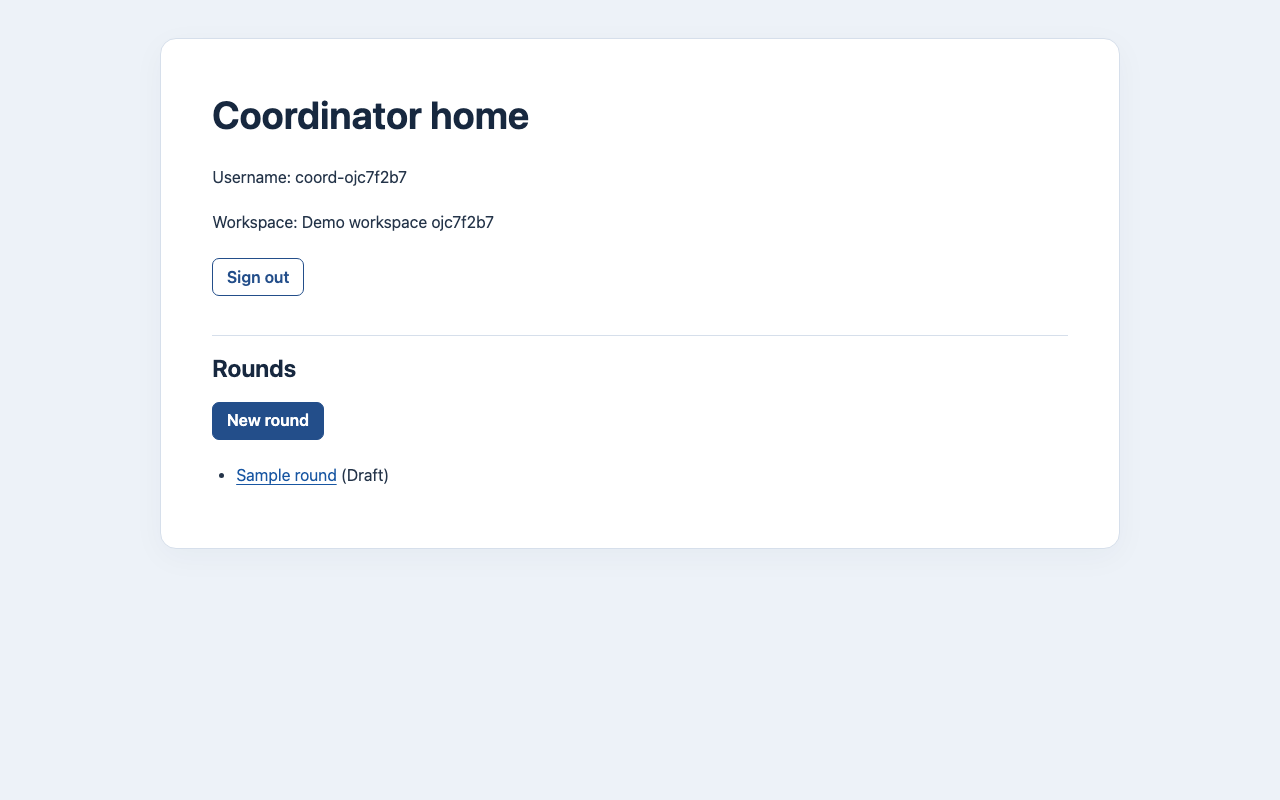
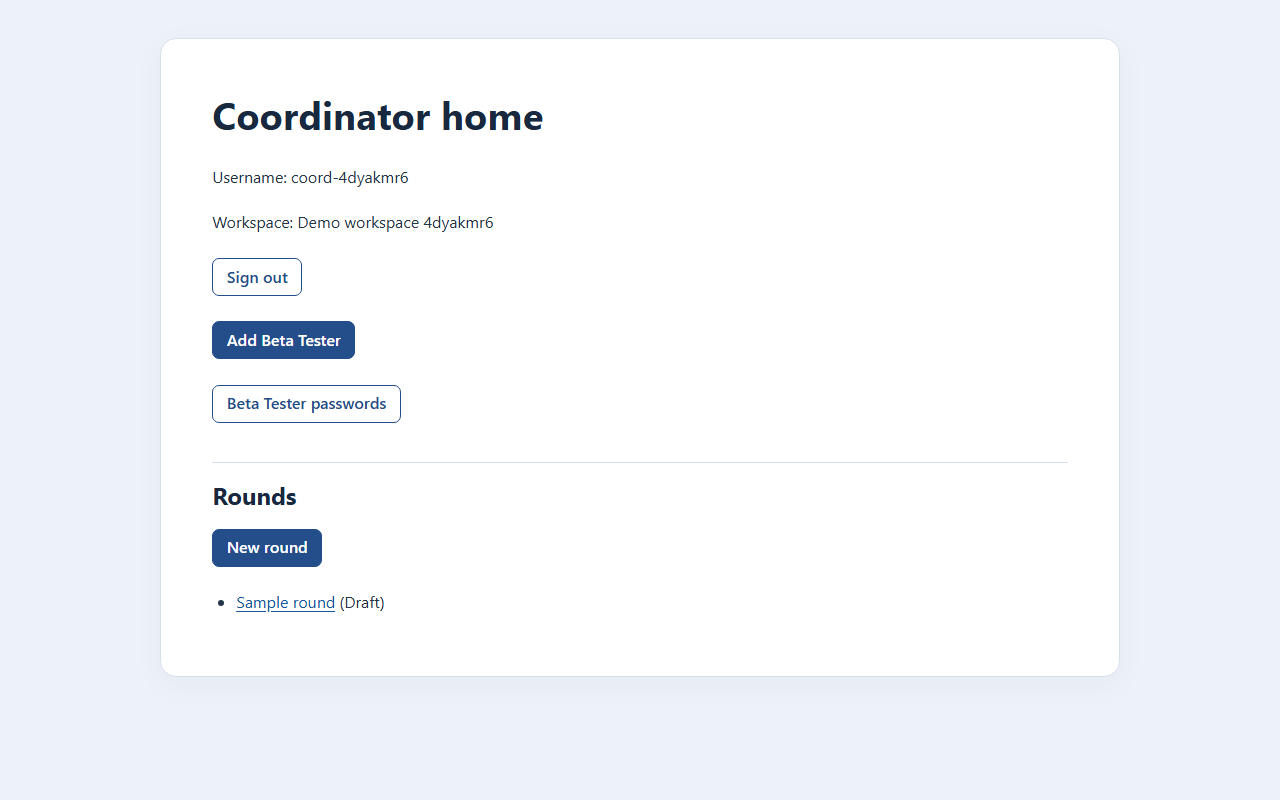
docs: Add tester account screenshots (#143)

diff --git a/src/e2e/screenshots.py b/src/e2e/screenshots.py
@@ -1,9 +1,10 @@
 """Regenerate the User Guide screenshots in ``docs/images/`` from the real app.
 
 This drives one synthetic journey through Django's live server with the browser
-harness: create a demo workspace, prepare and publish its sample round as the
-coordinator, record a Pass and a Fail (with observation feedback) as its two
-testers, then review results, request a retest and view **My results**. The AI
+harness: create a demo workspace, add a tester and show password management,
+prepare and publish its sample round as the coordinator, record a Pass and a
+Fail (with observation feedback) as its two initial testers, then review results,
+request a retest and view **My results**. The AI
 gateway is mocked, as in ``test_drafting.py`` and ``test_feedback.py``, so no
 provider is called. The demo passwords shown are random and exist only in the
 throwaway test database.
@@ -14,6 +15,10 @@ it. To refresh the images, with the test database available, run::
     pytest src/e2e/screenshots.py
 
 then review every changed PNG before committing it.
+
+To refresh only the account-management images, select::
+
+    pytest src/e2e/screenshots.py::test_account_management_screenshots
 """
 
 import json
@@ -74,15 +79,17 @@ def new_session(page, live_server, credentials):
     return session
 
 
-def demo_workspace(page):
+def demo_workspace(page, *, capture=True):
     """Create a demo workspace from the start page and read its credentials."""
     page.goto("/")
-    shot(page, "start-page")
+    if capture:
+        shot(page, "start-page")
     page.get_by_role("button", name="Create a demo workspace", exact=True).click()
     expect(
         page.get_by_role("heading", name="Your demo workspace", exact=True)
     ).to_be_visible()
-    shot(page, "demo-workspace")
+    if capture:
+        shot(page, "demo-workspace")
     rows = page.get_by_role("row").filter(has=page.get_by_role("cell"))
     expect(rows).to_have_count(3)
     accounts = []
@@ -97,12 +104,37 @@ def demo_workspace(page):
     return accounts
 
 
-def prepare_and_publish(page):
-    """As the coordinator, show the Draft round, its forms and AI drafting."""
+def account_management(page):
+    """Capture the coordinator's tester creation and password-management pages."""
     expect(
         page.get_by_role("heading", name="Coordinator home", exact=True)
     ).to_be_visible()
+    expect(
+        page.get_by_role("button", name="Add Beta Tester", exact=True)
+    ).to_be_visible()
+    expect(
+        page.get_by_role("link", name="Beta Tester passwords", exact=True)
+    ).to_be_visible()
     shot(page, "coordinator-home")
+    page.get_by_role("button", name="Add Beta Tester", exact=True).click()
+    expect(
+        page.get_by_role("heading", name="Beta Tester added", exact=True)
+    ).to_be_visible()
+    shot(page, "beta-tester-added")
+    page.get_by_role("link", name="Coordinator home", exact=True).click()
+    page.get_by_role("link", name="Beta Tester passwords", exact=True).click()
+    expect(
+        page.get_by_role("heading", name="Beta Tester passwords", exact=True)
+    ).to_be_visible()
+    expect(page.get_by_role("button", name="Reset password", exact=True)).to_have_count(
+        3
+    )
+    shot(page, "beta-tester-passwords")
+    page.get_by_role("link", name="Coordinator home", exact=True).click()
+
+
+def prepare_and_publish(page):
+    """As the coordinator, show the Draft round, its forms and AI drafting."""
     page.get_by_role("link", name="Sample round", exact=True).click()
     expect(page.get_by_text("State: Draft", exact=True)).to_be_visible()
     round_url = page.url
@@ -205,6 +237,7 @@ def test_user_guide_screenshots(page, live_server):
     coordinator, first, second = demo_workspace(page)
     page.get_by_role("link", name="Sign in", exact=True).click()
     sign_in(page, coordinator, "username")
+    account_management(page)
     round_url = prepare_and_publish(page)
 
     sessions = [new_session(page, live_server, tester) for tester in (first, second)]
@@ -221,3 +254,12 @@ def test_user_guide_screenshots(page, live_server):
     finally:
         for session in sessions:
             session.context.close()
+
+
+def test_account_management_screenshots(page):
+    """Refresh only the guide images for adding testers and resetting passwords."""
+    IMAGES.mkdir(exist_ok=True)
+    page.set_viewport_size(VIEWPORT)
+    coordinator, _, _ = demo_workspace(page, capture=False)
+    sign_in(page, coordinator, "username")
+    account_management(page)

diff --git a/logs/Whimsyturtle/041-reset-workspace-tester-passwords.md b/logs/Whimsyturtle/041-reset-workspace-tester-passwords.md
@@ -2,23 +2,25 @@
 
 Slice: #143 · Tier: High · Tool: Codex · Orchestrator model: gpt-6-astra (observed telemetry) · Date: 2026-11-06
 
-Tokens: measured sources total 25,076,314 input, 69,880 output and 25,146,194 total at 18:15:32 SGT. Combined usage is unavailable because one approval-review source lacks a task-start baseline.
+Tokens: measured sources total 30,419,009 input, 88,693 output and 30,507,702 total at 19:09:08 SGT. Combined usage is unavailable because one approval-review source lacks a task-start baseline.
 
 | Agent/source | Input | Cached input | Output | Reasoning output | Total | Recorded elapsed span |
 | --- | ---: | ---: | ---: | ---: | ---: | --- |
-| Orchestrator — gpt-6-astra/xhigh, `codex:874eb87b12b078258dc4f7a9` | 9,901,025 | 9,803,520 | 23,818 | 7,542 | 9,924,843 | 42m 40s measured interval |
+| Orchestrator — gpt-6-astra/xhigh, `codex:874eb87b12b078258dc4f7a9` | 15,181,920 | 15,021,056 | 42,235 | 14,036 | 15,224,155 | 1h 36m 17s measured interval |
 | Builder — gpt-6.1-sol/medium, `codex:e8524338101a4308d12eee98` | 13,341,650 | 13,210,752 | 37,836 | 7,841 | 13,379,486 | 40m 53s |
 | Verifier — gpt-6.1-sol/high, `codex:b41fb4448b7af7baec8f3b82` | 1,127,835 | 1,058,048 | 3,983 | 1,232 | 1,131,818 | 8m 59s |
 | Security reviewer — gpt-6.1-sol/high, `codex:945222354c526bb4b5801312` | 604,948 | 545,408 | 3,562 | 569 | 608,510 | 2m 19s |
-| Coordinator approval review — codex-auto-review/low, `codex:8543d4a5e6823dbf7663b427` | unavailable | unavailable | unavailable | unavailable | unavailable | 27m 48s |
+| Coordinator approval review — codex-auto-review/low, `codex:8543d4a5e6823dbf7663b427` | unavailable | unavailable | unavailable | unavailable | unavailable | unavailable without baseline |
 | Builder approval review — codex-auto-review/low, `codex:c128dd04184b04639015a04a` | 100,856 | 75,776 | 681 | 422 | 101,537 | 6m 21s |
+| Screenshot approval review — codex-auto-review/low, `codex:636b75c255d1b7cea6a4954b` | 61,800 | 45,440 | 396 | 202 | 62,196 | 1m 02s |
 
-Three delegated role agents, with the builder reused across checkpoints and the verifier resumed for final CI evidence; two automatic approval-review sources also discovered. Runtime models/efforts above were observed, matching role adapters. Baseline/report used `resource_usage.py` with related-session discovery; it reported `added_session_has_no_task_start_baseline` for the early approval source. Startup before 17:32:51 SGT and delivery after the cutoff are excluded. Measured cache-write input was zero. One builder correction round preceded review; independent-review repair rounds were zero. Spans overlap; see [token reporting](../../workflow/README.md#token-reporting).
+Three delegated role agents, with the builder reused across checkpoints and the verifier resumed for final CI evidence; three automatic approval-review sources also discovered. Runtime models/efforts above were observed, matching role adapters. Baseline/report used `resource_usage.py` with related-session discovery; it reported `added_session_has_no_task_start_baseline` for the early approval source. A separate baseline was also captured before the screenshot follow-up; the table includes it in the full measured session interval. Startup before 17:32:51 SGT and delivery after the cutoff are excluded. Measured cache-write input was zero. One builder correction round preceded review; independent-review repair rounds were zero. Spans overlap; see [token reporting](../../workflow/README.md#token-reporting).
 
 ## Requests
 
 - Run `/slice 143 on top of pr #153`, with normal incremental commits, push, draft PR and validation delivery.
 - Preserve the existing main worktree and its unrelated untracked notes, peer evaluation and audit log. Work used the isolated `tmp/worktrees/issue-143` checkout.
+- After asking whether tester creation and password reset needed guide screenshots, requested adding the proposed three-image update to this same PR.
 
 ## Agent runs
 
@@ -28,13 +30,15 @@ Three delegated role agents, with the builder reused across checkpoints and the 
 - **Builder, guides/checks:** used maintain-docs for exact built UI text and existing design links; docs committed `124ded7`. First full run was superseded by the changed upstream base and failed in the restricted execution environment. After coordinator integration and external harness correction, final elevated full verification passed Ruff and 2989 tests, with five skips and the three fixed-port configuration failures described in the plan. All browser journeys passed. Builder held tracked files unchanged while reviewers worked and returned a passing scope/unchanged check.
 - **Verifier:** role hash `dc3d558e9db4`; supplied fixed candidate `c1372cd..f5bb810`, criteria, diff paths, plan and actual focused/runtime evidence. Independently inspected all changed source/test assertions, guides, scope and spec-first commits; returned no findings. Scope and whitespace checks passed. A brief follow-up assessed supplied successful Linux CI for the same candidate without repeating code inspection or tests.
 - **Security reviewer:** role hash `7787b969fbe7`; supplied the same fixed candidate and account/session/privacy controls. Independently inspected authorization before generation and under lock, password-only updates, rollback, CSRF/method ordering, credential redaction and installed Django auth-hash behavior. No findings or scope expansion. Checked direct/cross-workspace IDs, forged fields, script-shaped username fixtures, stale cookies and concurrent reset assertions; no runtime tests independently executed. Hosted security and native hook enforcement remain unverified.
-- Both reviewers' scopes passed and the frozen manifest remained unchanged. Linux [CI 42199270500](https://github.com/CS3227-2610-MP4-Relay/CS3227-2610-MP4/actions/runs/42199270500) passed on `f5bb810`: Django/Ruff, 2994 tests with three skips, and site build. Summary-only changes follow this review. Final summary-head checks will be recorded in [draft PR #154](https://github.com/CS3227-2610-MP4-Relay/CS3227-2610-MP4/pull/154); this cutoff does not claim they have already run.
+- Both reviewers' scopes passed and the frozen manifest remained unchanged. Linux [CI 42199270500](https://github.com/CS3227-2610-MP4-Relay/CS3227-2610-MP4/actions/runs/42199270500) passed on `f5bb810`: Django/Ruff, 2994 tests with three skips, and site build. Summary head `b485933` also passed verification and site build in [CI 42201697424](https://github.com/CS3227-2610-MP4-Relay/CS3227-2610-MP4/actions/runs/42201697424).
+- **Orchestrator, screenshot follow-up:** applied maintain-docs as a Fast lane cosmetic addition with no new delegated role runs. Extended the existing optional capture harness, refreshed Coordinator home and added Beta Tester added/passwords screenshots beside the guide instructions. Focused capture passed once in 9.10s against the existing isolated synthetic test database; all three images were visually inspected for readable, unclipped content. All 16 guide image links, changed-section readback, targeted Ruff and whitespace checks passed. Exact capture command is in the plan. Previous product checks/review remain applicable because production code, tests and environment are unchanged. Final follow-up CI will be recorded in [draft PR #154](https://github.com/CS3227-2610-MP4-Relay/CS3227-2610-MP4/pull/154).
 
 ## Decisions and corrections
 
 - Reset only a Beta Tester in the coordinator's workspace; reuse existing generated credentials and Django session invalidation. Preserve account identity/history. No coordinator recovery, email, new service or session subsystem. Each successful resubmission resets again; already-running authenticated requests are not cancelled.
 - PR #153 merged at 17:51:05 SGT and its branch was deleted during this slice. Retargeted the new draft to `main` and integrated its additional #141 changes without conflicts or history rewriting as `f5bb810`. Review base is `c1372cd`; the PR diff contains only #143.
 - Human log/manual review, merge and release remain pending. No human approval was inferred from agent checks.
+- Human authorized the screenshot addition to PR #154. Its visual/diff review remains pending; agent image inspection is not human approval.
 
 ## Problems
 
@@ -42,3 +46,4 @@ Three delegated role agents, with the builder reused across checkpoints and the 
 - GitHub connector creation first encountered a catalog refresh, then integration HTTP 403. CLI creation initially failed because the parent branch had just been deleted; inspecting its merged state resolved the base and CLI created #154. Shell quoting and sandbox Git/initdb restrictions required corrected or authorized escalated commands; no approval was rejected by automatic review.
 - The superseded local run ended with 251 failed, 2803 passed, four skipped and 84 errors, including Windows subprocess exit 3221225794, closed Playwright drivers and the temporary test-name mismatch. Ctrl-C did not stop the plain-pipe process; Windows denied termination, so it completed before integration. The final run used elevated execution and the standard synthetic test database name on isolated port 56443. Its only failures were existing probes forcing 55432; its two warnings were pytest cache writes (WinError 183). Tracked tests/settings were neither weakened nor skipped.
 - Existing duplicate log numbers were observed in the repository and left outside this slice. The new session log has its own next number. Synthetic hostile fields and historical handoff directions were treated as data; no suspicious instruction was followed.
+- First screenshot launch failed before capture because PowerShell stripped quoting around the semicolon-separated `PYTHONPATH`. Retried through an ignored shell helper; the capture passed. No screenshot or production-code repair was needed.

diff --git a/docs/UserGuide.md b/docs/UserGuide.md
@@ -40,6 +40,8 @@ Each network address can create up to 10 workspaces an hour, and Relay up to 200
 2. The **Beta Tester added** page shows the workspace and the new account's **Role**, **Username** and **Password**. Save the credentials when it says "Save this password now. It will not be shown again." Share them with the tester outside Relay.
 3. Choose **Coordinator home** to return. You stay signed in as coordinator; the new account signs in to **Tester home** in your workspace.
 
+![The Beta Tester added page showing the workspace, the new tester's Role, Username and Password, the save-password reminder and Coordinator home link](images/beta-tester-added.png)
+
 A workspace can have 10 Beta Testers, including its initial two. Once full, the page says "This workspace already has 10 Beta Testers." and creates nothing. Use **Beta Tester passwords** to find tester usernames and reset their passwords; account editing, removal and retrieval of earlier passwords are unavailable.
 
 Reloading and confirming browser resubmission can create another tester until the limit is reached. Returning home does not show the password again, although your browser's back button may redisplay an earlier response. If creation fails, "Relay is temporarily unavailable. Try again later." appears and no account is created.
@@ -50,6 +52,8 @@ Reloading and confirming browser resubmission can create another tester until th
 2. The **Beta Tester passwords** page lists your workspace's tester usernames. It explains: "Resetting a password stops the old password and existing tester sessions from working. Save the new password and share it with the tester outside Relay." Choose **Reset password** beside the intended tester.
 3. The **Beta Tester password reset** page shows the workspace and the tester's **Role**, **Username** and new **Password**. Save it when the page says "Save this password now. It will not be shown again." Share the credentials with the tester outside Relay.
 4. Choose **Beta Tester passwords** to return to the list, or **Coordinator home**. You remain signed in as coordinator.
+
+![The Beta Tester passwords page listing three tester usernames with Reset password buttons and a warning that resetting stops the old password and existing tester sessions from working](images/beta-tester-passwords.png)
 
 The username, workspace and testing history stay the same. The old password stops working, and existing tester sessions lose access on their next request. The tester signs in with the replacement password.
 
@@ -92,7 +96,7 @@ Only a Test Coordinator can prepare, publish, review, retest and close test roun
 
 **Coordinator home** has a **Rounds** heading with a **New round** link. Below it, each round in your workspace is listed, newest first, as a link to its round page followed by its state, such as "(Draft)". A new demo workspace starts with its [sample round](#create-a-demo-workspace), so its list is not empty; "No rounds yet." appears only for a workspace with no rounds.
 
-![Coordinator home showing the username, workspace, Sign out, the Rounds heading with New round, and Sample round (Draft)](images/coordinator-home.png)
+![Coordinator home showing the username, workspace, Sign out, Add Beta Tester, Beta Tester passwords, and the Rounds section with New round and Sample round (Draft)](images/coordinator-home.png)
 
 Whenever creating, publishing, retesting or closing a round, or saving or deleting anything in it, fails, the page says "Relay is temporarily unavailable. Try again later." and nothing changes.
 

diff --git a/workflow/plans/143-tester-password-reset.md b/workflow/plans/143-tester-password-reset.md
@@ -53,4 +53,10 @@ Final local command, in Git Bash with the existing venv and helper/worktree `PYT
 
 Linux [CI 42199270500](https://github.com/CS3227-2610-MP4-Relay/CS3227-2610-MP4/actions/runs/42199270500) passed on frozen `f5bb810`: Django checks, Ruff, all **2994 tests passed, 3 skipped** (96 injection tests plus 2898 remaining), and the site build. Deployment jobs were skipped. Verifier and security-reviewer independently inspected `c1372cd..f5bb810` and returned no findings; scope checks and `%TEMP%/relay-143-review-candidate.json` unchanged comparison passed. Reviewers inspected source/assertions; runtime results were coordinator/builder evidence. Native pre-edit hook enforcement remains unverified. The [session log](../../logs/Whimsyturtle/041-reset-workspace-tester-passwords.md) records contexts, resources and limitations.
 
-Next: push the summary-only checkpoint and verify configured CI on that final PR head. Human log/manual review, merge and release remain pending.
+Summary head `b485933` passed configured verification and site CI in run `42201697424`. Human log/manual review, merge and release remain pending.
+
+## Screenshot follow-up
+
+Human requested adding the proposed screenshot coverage to this same PR: refresh Coordinator home and add the Beta Tester added and Beta Tester passwords pages. This is a Fast lane documentation-only follow-up; product behaviour, criteria and security controls are unchanged. Use maintain-docs, extend the existing optional capture harness for reproducible focused captures, and add the guide images with accurate alt text. One coherent `docs:` commit contains the harness, three PNGs, guide and summary evidence. Run the focused capture against the isolated synthetic database, inspect all three images, check guide links and targeted Ruff, then push and verify final-head CI. Human visual/diff review remains pending.
+
+Coordinator ran `pytest --ds=relay_slice143_settings src/e2e/screenshots.py::test_account_management_screenshots --basetemp=../../../tmp/slice143-harness/screenshots-followup -q -p no:cacheprovider` with the existing venv, browser and isolated test database: **1 passed in 9.10s**. Only the three intended PNGs changed; they contain disposable synthetic accounts. Inspected all three at full size: headings, controls, credential table and warning are readable and unclipped. All 16 guide image links resolve; changed guide sections read back without duplicated headings or orphaned text. Targeted Ruff lint/format and whitespace checks passed. No new delegated review was run for this cosmetic follow-up; the prior product review range is unchanged. Final pushed-head CI will be recorded in the draft PR.
